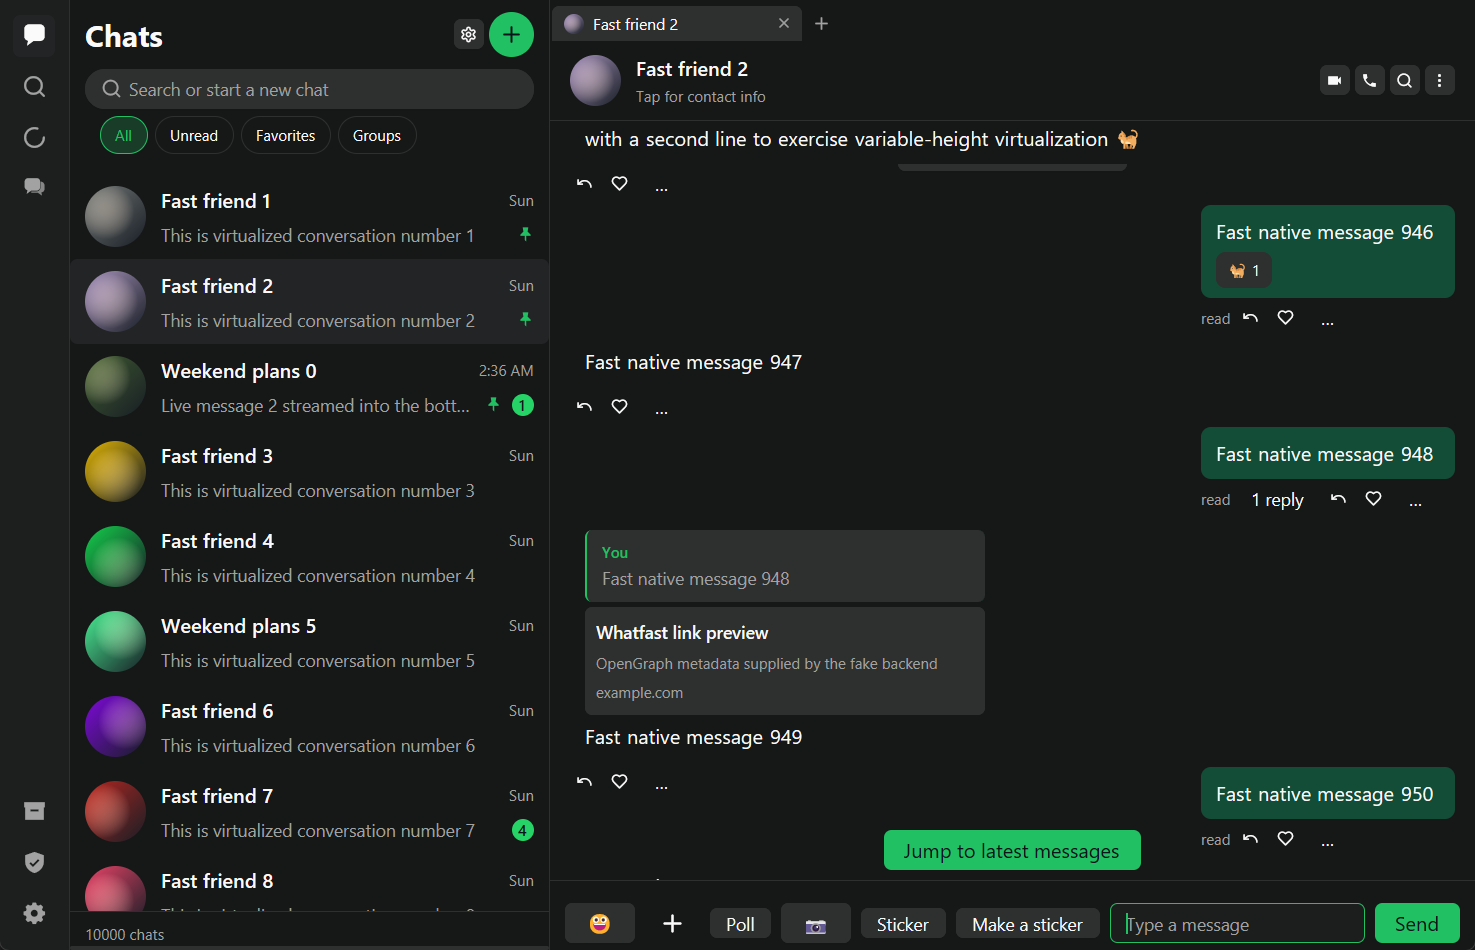
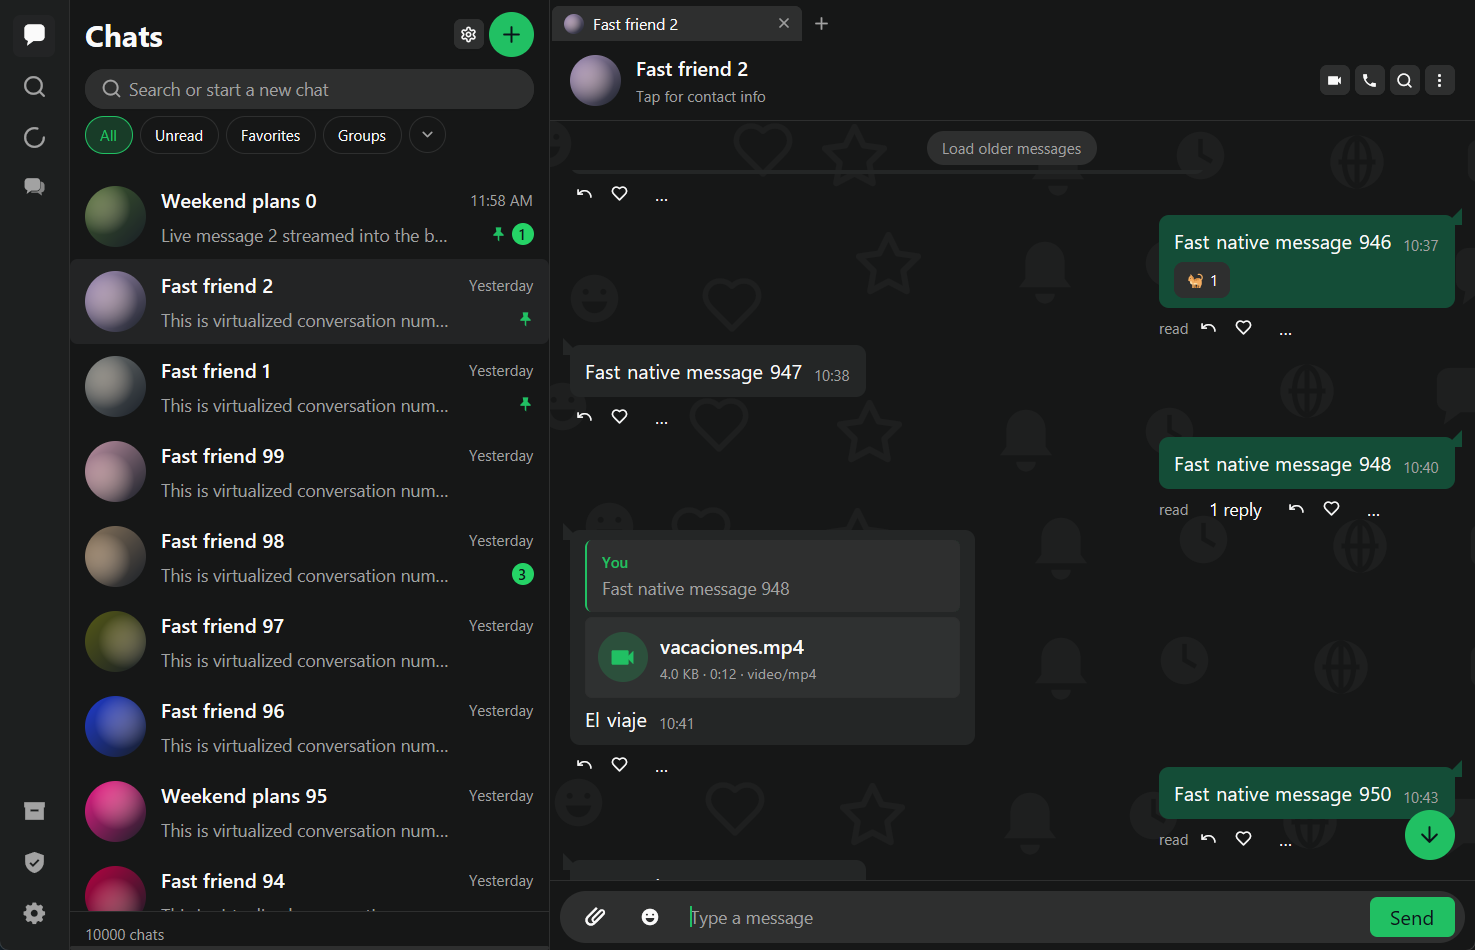
Las horas y los dias reales en el backend de demostracion

diff --git a/crates/whatfast-protocol/src/fake.rs b/crates/whatfast-protocol/src/fake.rs
@@ -1687,7 +1687,7 @@ pub fn fake_chat(id: usize) -> Chat {
             format!("Fast friend {id}")
         },
         last_message_preview: format!("This is virtualized conversation number {id}"),
-        last_message_timestamp_ms: 1_900_000_000_000 - id as i64,
+        last_message_timestamp_ms: fake_timestamp_ms(id),
         unread_count: (id % 7 == 0) as u32 * ((id % 4) + 1) as u32,
         pinned: id < 3,
         phone_number: if id % 5 != 0 {
@@ -1707,6 +1707,36 @@ pub fn fake_chat(id: usize) -> Chat {
         },
         ..Default::default()
     }
+}
+
+/// The moment the fake counts as "now".
+///
+/// The history of the fake goes back from this moment, so the app shows
+/// real hours and real days (and the separator of the day has something to
+/// separate). The moment is taken once, so the times of the messages do not
+/// move while the app is open.
+fn fake_now_ms() -> i64 {
+    static NOW: std::sync::OnceLock<i64> = std::sync::OnceLock::new();
+    *NOW.get_or_init(|| {
+        SystemTime::now()
+            .duration_since(UNIX_EPOCH)
+            .map(|since| since.as_millis() as i64)
+            .unwrap_or(0)
+    })
+}
+
+/// The gap between two messages of the fake, in milliseconds.
+///
+/// Ninety seconds: with a thousand messages the history spans a bit more
+/// than a day, so the app shows "Today" and "Yesterday".
+const FAKE_STEP_MS: i64 = 90_000;
+
+/// The moment of a message of the dataset.
+///
+/// The newest message is the one of now, and the older ones go back.
+fn fake_timestamp_ms(id: usize) -> i64 {
+    let total = MESSAGE_TOTAL.max(id + 1) as i64;
+    fake_now_ms() - (total - id as i64) * FAKE_STEP_MS
 }
 
 /// A message of the dataset.
@@ -1730,7 +1760,7 @@ pub fn fake_message(chat_id: &str, id: usize, profile_dir: &Path) -> Message {
             "+15551234567".into()
         },
         from_me: id % 2 == 0,
-        timestamp_ms: id as i64,
+        timestamp_ms: fake_timestamp_ms(id),
         status: MessageStatus::Read as i32,
         content: Some(if id % 37 == 0 && id > 0 {
             // A real picture on disk, so the media path (thumbnail, full

diff --git a/crates/whatfast-protocol/tests/fake.rs b/crates/whatfast-protocol/tests/fake.rs
@@ -504,7 +504,9 @@ fn fake_dataset_is_deterministic() {
         chat.last_message_preview,
         "This is virtualized conversation number 0"
     );
-    assert_eq!(chat.last_message_timestamp_ms, 1_900_000_000_000);
+    // The time of the fake is the real one: the history of the chat goes
+    // back from now.
+    assert!(chat.last_message_timestamp_ms > 1_700_000_000_000);
     // Zero is a multiple of seven too: the chat zero has one unread.
     assert_eq!(chat.unread_count, 1);
     assert!(chat.pinned);
@@ -540,7 +542,11 @@ fn fake_dataset_is_deterministic() {
     assert_eq!(message.sender_name, "Fast friend");
     assert_eq!(message.sender_phone_number, "+15551234567");
     assert!(!message.from_me);
-    assert_eq!(message.timestamp_ms, 1);
+    // The time of the fake is the real one: the history goes back from
+    // now, a message every minute and a half.
+    assert!(message.timestamp_ms > 1_700_000_000_000);
+    let newer = fake_message("chat-0", 2, Path::new("unused"));
+    assert!(newer.timestamp_ms > message.timestamp_ms);
     assert_eq!(
         message.status,
         whatfast_protocol::MessageStatus::Read as i32
